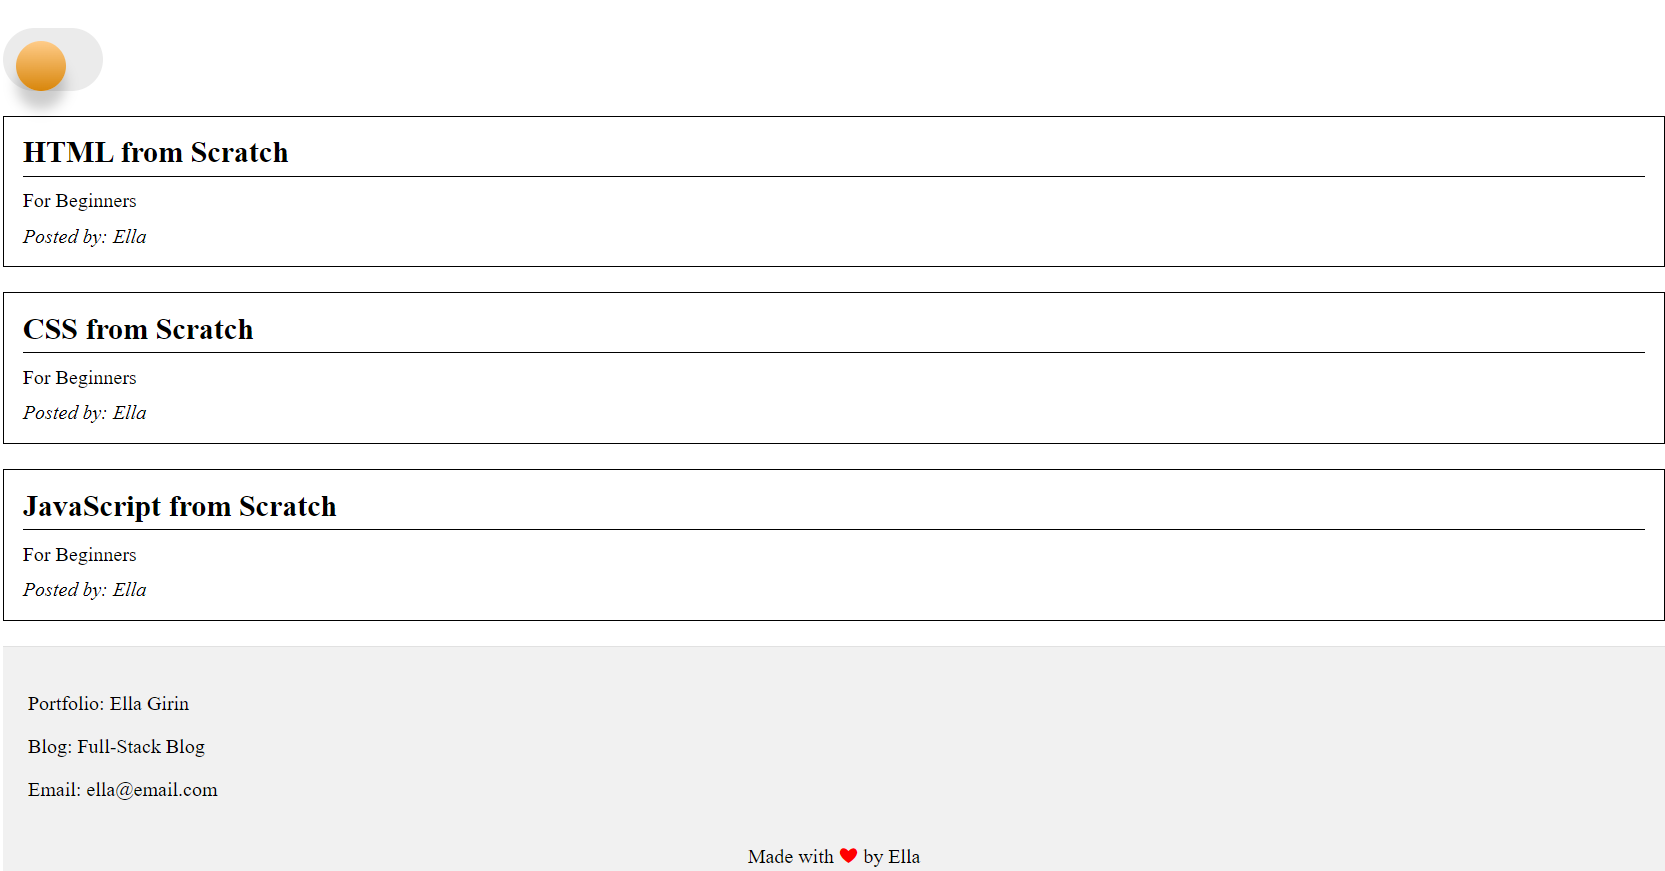
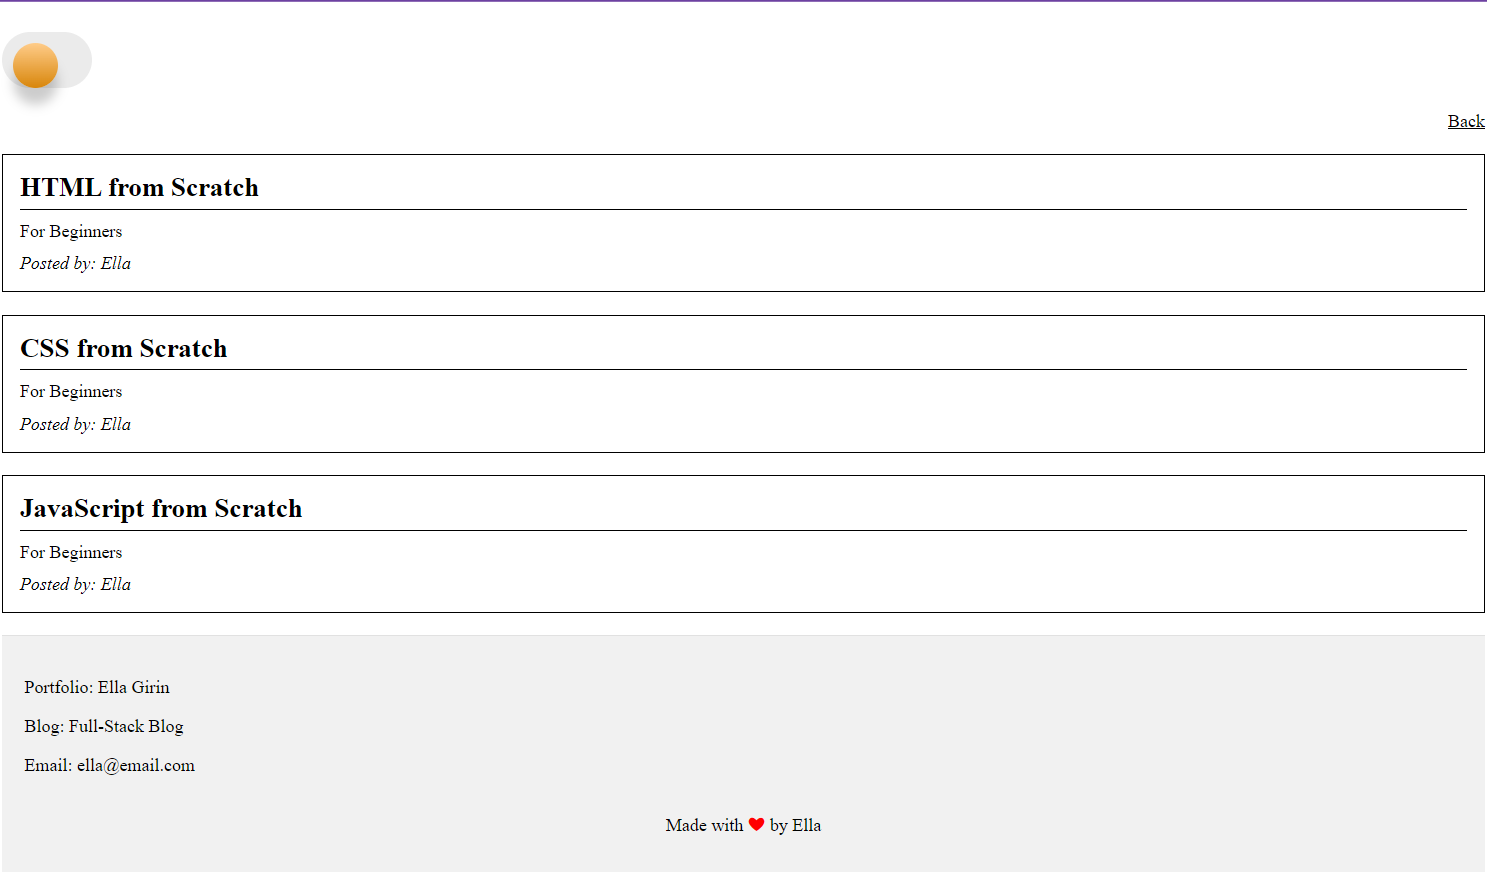
added Back button to blog.html

Changed region(s): [[0.0, 0.124, 1.0, 0.713], [0.0, 0.775, 0.1237, 0.93], [0.4331, 0.93, 0.5568, 0.992]]

diff --git a/assets/css/form.css b/assets/css/form.css
@@ -53,6 +53,23 @@ input:checked + label + .background{
 }
 
 
+
+.back-container {
+    text-align: right; /* Aligns the content to the right */
+    width: 100%; /* Sets the width of the container to full width of its parent */
+    padding-right: 20px; /* Adds padding to the right */
+}
+
+/* Optional: Style the link itself if needed */
+.back-link {
+    text-decoration: underline;
+    display: inline-block; /* Makes the link inline-block so it can have padding and margins */
+    margin-top: 20px; 
+    color: #000; /* Set the color of the link text */
+}
+
+
+
 .post {
     border: 1px solid #000;  /* Add a border around each post */
     margin-bottom: 20px;    /* Add some space between posts */

diff --git a/blog.html b/blog.html
@@ -13,6 +13,9 @@
         <div class="background"></div>
         <div class="line"></div> <!-- Line under the navbar -->
     </header>
+    <div class="back-container">
+        <a href="index.html" class="back-link">Back</a>
+    </div>
     <div class="post">
         <h2 class="post-title">HTML from Scratch</h2>
         <p class="post-content">For Beginners</p>
